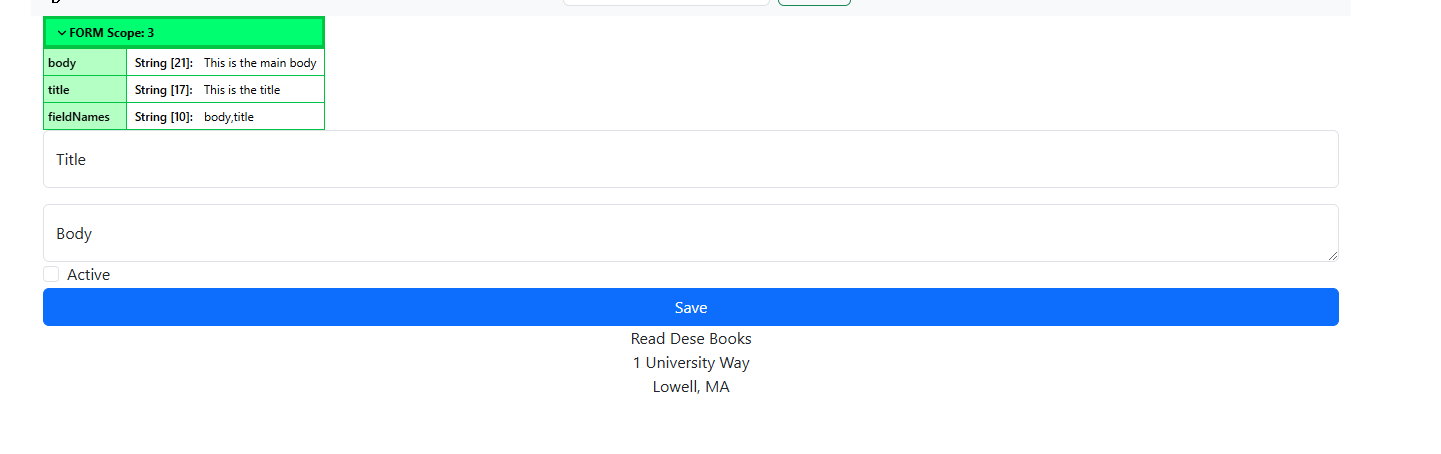
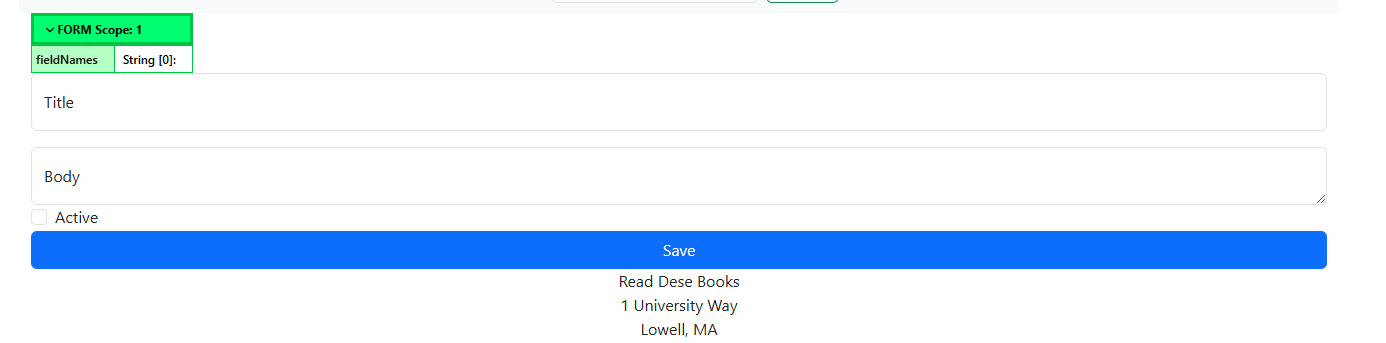
GITBOOK-114: No subject

diff --git a/week-3-working-forms-and-our-first-table/working-forms/creating-our-server-side-logic.md b/week-3-working-forms-and-our-first-table/working-forms/creating-our-server-side-logic.md
@@ -1,8 +1,77 @@
 ---
 description: >-
   Goal: By the end of this document, you will have created a .bx file to handle
-  saving data from our first form and into our
+  saving data from our first form and into your database.
 ---
 
 # Creating Our Server Side Logic
+
+Now that we have a working form, we can use the form data and save it to our database. To do that we need to do three things
+
+1. Tell our manageArticles.bxm file to only send data when it receives it from the submitted form.
+2. Create a CLASS file which saves data to our DB
+3. Tell our manageArticles.bxm file where to send it the data it receives
+
+## Telling our manageArticles.bxm file to only send data when it receives it from the form.&#x20;
+
+You might have noticed that the green dump appears on your manageArticles.bxm page even where there is no data submitted. This is because all data submitted in a form is collected and saved in a special variable called "FORM". That variable exists whether a form has been submitted or not.&#x20;
+
+<figure><img src="../../.gitbook/assets/image.png" alt=""><figcaption></figcaption></figure>
+
+To tell if our form as been submitted or not, we can add an IF statment and put some instructions inside of that. These instruction will run only IF the conditions in the statement are fulfilled.&#x20;
+
+1.  Edit the top of your manageArticles.bxm page to this
+
+    <pre><code>&#x3C;bx:if form.keyExists("title")>
+    <strong>    &#x3C;bx:dump var="#form#" />
+    </strong>&#x3C;/bx:if>
+    </code></pre>
+2. Load your page.  You should NOT see the green dump out box.&#x20;
+3. Enter some data into your form and submit it. Now you should see the contents of your form displayed in the green dump out box like before.
+
+## Create a CLASS file which saves data to our DB
+
+Since we want to follow good separation of concerns, we are going to put all of our "controller" or "logic" in its own folder structure. Inside the bookstore folder, create a folder named "common".
+
+<figure><img src="../../.gitbook/assets/image (1).png" alt=""><figcaption></figcaption></figure>
+
+1. In the common folder, create a file called articles.bx. All of the logic which has to do with articles, we are going to put into this folder.&#x20;
+2. At the top of the file, put in: \
+   `class {`\
+   \
+   `}`
+3.  `Now we are going to create a function inside that class. A function is just a collection of code that has a name and can be called whenever it is needed. We'll go more into functions next week but for now, just follow the code here. We're going to name our function saveArticle.` \
+
+
+    ```boxlang
+    function saveArticle( ){
+       
+    }
+    ```
+4.  Our function is going to need several pieces of data to do it's job. In the parentheses after the function name, we are going to list the pieces of data it is expecting, what type of data it should be and whether or not it is required. \
+
+
+    ```boxlang
+    function saveArticle( required string title="", required string description="", numeric status=0 ){
+
+    }
+    ```
+
+    \
+
+5.  And now we need to actually put in the part of the code which will do the job we want. In this case, save our data to the database. \
+
+
+    ```boxlang
+        function saveArticle( required string title="", required string description="", numeric status=0 ){
+            queryExecute("
+                INSERT IGNORE into articles (title, description, status) 
+                VALUES (:title, :description, :status)
+            ",{
+                title:arguments.title,
+                description:arguments.description,
+                status: arguments.status
+            });
+        }
+    ```
 

diff --git a/week-3-working-forms-and-our-first-table/working-forms/configuring-our-site-to-use-our-database.md b/week-3-working-forms-and-our-first-table/working-forms/configuring-our-site-to-use-our-database.md
@@ -4,8 +4,8 @@ Just like we configured MySQL Workbench to connect to our database, we need to c
 
 1. Open your ongoingWork folder in VSCode.
 2. In the file menu on the left side, find the file called .cfconfig.json. This is a special configuration file that CommandBox feeds into our BoxLang server when it starts up. In it we can define datasources, mapped drives and a number of other settings.&#x20;
-3. Notice how in the .cfconfig.json file, there is a section called datasources![](<../../.gitbook/assets/image (2) (1).png>)
-4. Replace where it says \*\*DSOURCENAME\*\* with your username ( first\_last ). ![](<../../.gitbook/assets/image (1).png>)
+3. Notice how in the .cfconfig.json file, there is a section called datasources![](<../../.gitbook/assets/image (2) (1) (1).png>)
+4. Replace where it says \*\*DSOURCENAME\*\* with your username ( first\_last ). ![](<../../.gitbook/assets/image (3).png>)
 5. Notice the other values which are in a format like ${}? These are for server names, usernames and passwords BUT you don't want to check those values into a git repo because you don't want them shared. So what does that format mean? Those values are being pulled from another file called `.env`  which does not get checked into the git repo.&#x20;
 6. Open up the `.env` file.
 7.  Put put the appropriate values into the .env file and save it. Something like this but with your values:&#x20;

diff --git a/SUMMARY.md b/SUMMARY.md
@@ -78,8 +78,8 @@
   * [Working Forms](week-3-working-forms-and-our-first-table/working-forms/README.md)
     * [Separation of Concerns](week-3-working-forms-and-our-first-table/working-forms/separation-of-concerns.md)
     * [Configuring Our Site To Use Our Database](week-3-working-forms-and-our-first-table/working-forms/configuring-our-site-to-use-our-database.md)
-    * [Creating Our Server Side Logic](week-3-working-forms-and-our-first-table/working-forms/creating-our-server-side-logic.md)
     * [Capturing Your Form Data](week-3-working-forms-and-our-first-table/working-forms/capturing-your-form-data.md)
+    * [Creating Our Server Side Logic](week-3-working-forms-and-our-first-table/working-forms/creating-our-server-side-logic.md)
   * [Introduction To Modelling](week-3-working-forms-and-our-first-table/introduction-to-modelling.md)
   * [Introduction To SQL Studio](week-3-working-forms-and-our-first-table/introduction-to-sql-studio.md)
   * [Introduction to Creating Tables with SQL](week-3-working-forms-and-our-first-table/introduction-to-creating-tables-with-sql.md)

diff --git a/week-1-software-and-setup/git-getting-started/creating-a-local-repository.md b/week-1-software-and-setup/git-getting-started/creating-a-local-repository.md
@@ -32,7 +32,7 @@ Once you have installed SourceTree (or other client) you are ready to experiment
 8. At the bottom of the screen you will see a text box with the button COMMIT underneath it. In the text area, type "INITIAL COMMIT". It is customary to put a comment describing the work you did for each commit.&#x20;
 9. Click Commit. This will put your file into the git repository in that folder. It is now in the version control system and managed by git.&#x20;
 10. Look in the left menu panel under BRANCHES and notice that one called "master" has been created. It is in bold which means that is the branch which is currently checked out so all the files, no matter what program in which you open then, will be editing the files in this branch. \
-    ![](<../../.gitbook/assets/image (2) (1) (1) (1).png>)
+    ![](<../../.gitbook/assets/image (2) (1) (1) (1) (1).png>)
 
 
 

diff --git a/week-3-working-forms-and-our-first-table/working-forms/capturing-your-form-data.md b/week-3-working-forms-and-our-first-table/working-forms/capturing-your-form-data.md
@@ -24,7 +24,7 @@ Previously, we were focused on making sure our form was visually appearing the w
     ```
 6.  Enter some data into your form and submit it. You should see you information appear at the top of the page like this:&#x20;
 
-    <figure><img src="../../.gitbook/assets/image.png" alt=""><figcaption></figcaption></figure>
+    <figure><img src="../../.gitbook/assets/image (2).png" alt=""><figcaption></figcaption></figure>
 
 
 7. If you don't, make sure you followed all the directions on this page including wrapping the form in \<bx:output> \</bx:output>, putting a name property on all of your \<input /> tags and putting the \<bx:dump> at the top of the page.&#x20;

diff --git a/week-3-working-forms-and-our-first-table/database-tools-and-your-first-db/creating-your-first-table.md b/week-3-working-forms-and-our-first-table/database-tools-and-your-first-db/creating-your-first-table.md
@@ -19,7 +19,7 @@ The first table we are going to create is going to have columns for those two pi
 4. In the Table Name, enter `articles`.&#x20;
 5.  Add the columns id, title, description, createdDate, and status by filling out the column area according to the image below:
 
-    <figure><img src="../../.gitbook/assets/image (2).png" alt=""><figcaption></figcaption></figure>
+    <figure><img src="../../.gitbook/assets/image (2) (1).png" alt=""><figcaption></figcaption></figure>
 6. Click on Apply.
 7.  A window will popup with a some code in the SQL Language which was generated by your entries and the options chosen.&#x20;
 

diff --git a/week-1-software-and-setup/command-box/using-commandbox-and-installing-the-uml-info-package..md b/week-1-software-and-setup/command-box/using-commandbox-and-installing-the-uml-info-package..md
@@ -31,7 +31,7 @@ Package are collections of files and folders that are part of a website or progr
 4. Once you have ignored .env, a new file called .gitignore will be created and .env will be added to it.&#x20;
 5.  Click on Stage All  to move all the files to the Staged files area.&#x20;
 
-    <figure><img src="../../.gitbook/assets/image (3).png" alt=""><figcaption></figcaption></figure>
+    <figure><img src="../../.gitbook/assets/image (3) (1).png" alt=""><figcaption></figcaption></figure>
 6. Add a comment ( i.e. Class Files Commit ) and Commit the files.&#x20;
 7.  Click on PUSH to push the files to Github.
 

diff --git a/week-1-software-and-setup/git-getting-started/making-changes-and-merging-them.md b/week-1-software-and-setup/git-getting-started/making-changes-and-merging-them.md
@@ -13,7 +13,7 @@ Let's make some edits. Remember, we don't want to edit our Master version. We wa
 
 1. In SourceTree, double click on the "master" branch in the left side menu under Branches to ensure it is checked out (it will appear in bold if it is) .
 2. At the top of the screen, click on BRANCH and name your branch "First-Edit" in the window that pops up. \
-   ![](<../../.gitbook/assets/image (3) (1).png>)\
+   ![](<../../.gitbook/assets/image (3) (1) (1).png>)\
    \
    ![](<../../.gitbook/assets/image (5) (1).png>)
 3. Click on Create Branch.
